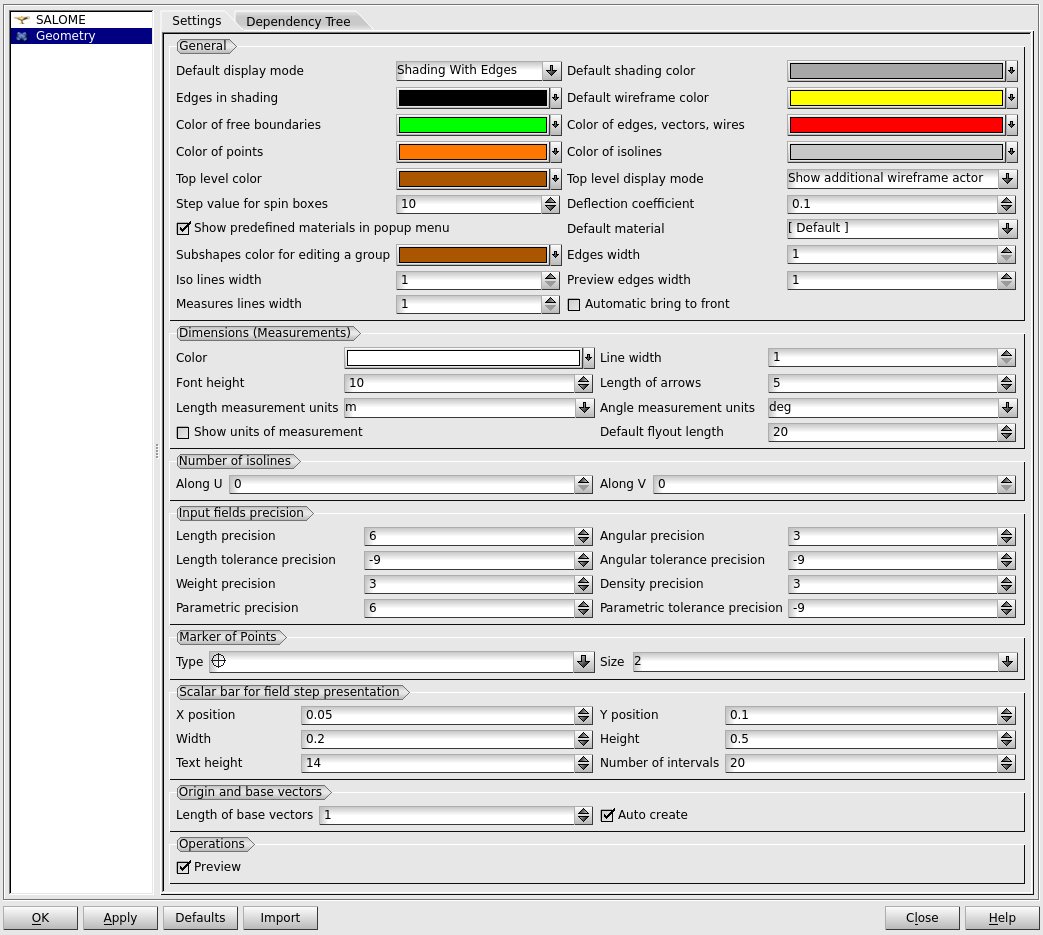
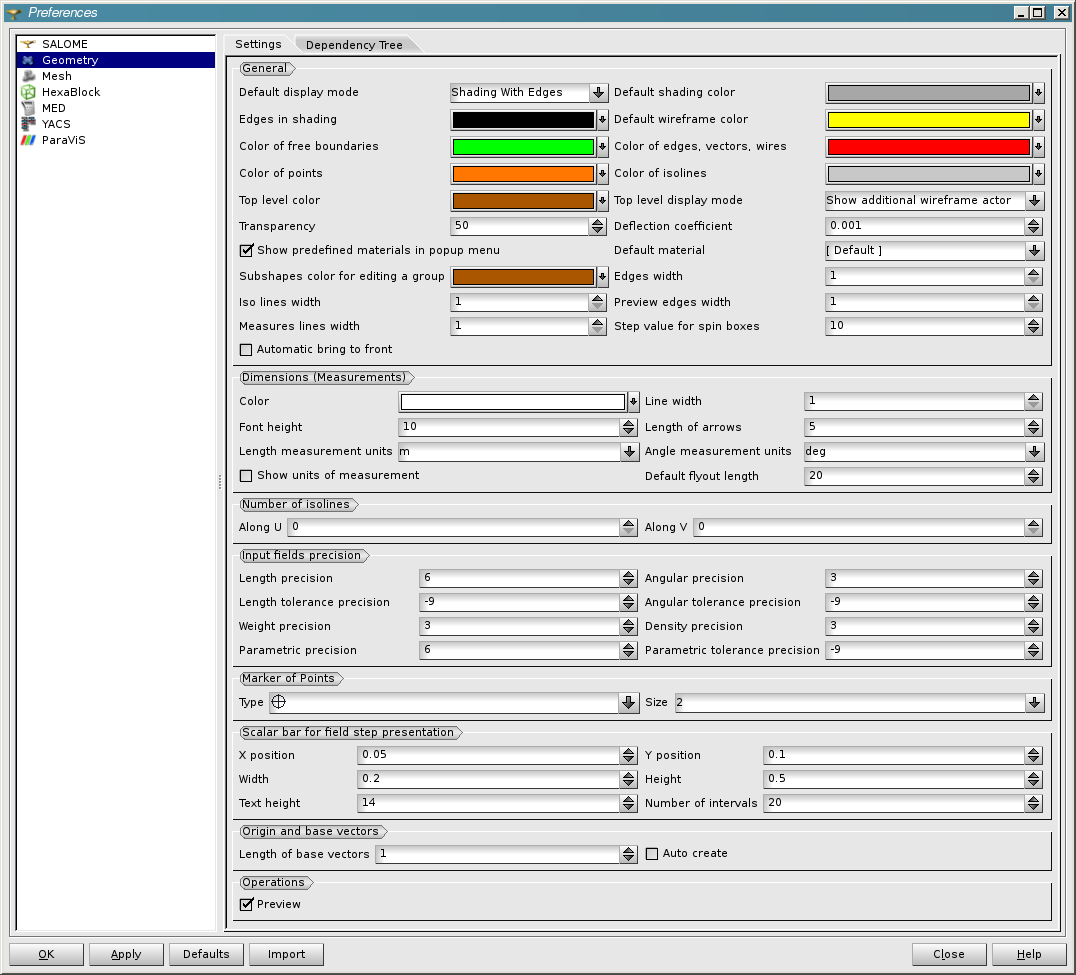
0022618: [CEA 1062] Define the transparency by default in the preferences

diff --git a/src/GEOMGUI/GEOM_msg_fr.ts b/src/GEOMGUI/GEOM_msg_fr.ts
@@ -3153,6 +3153,10 @@ Choisissez une face, une coque ou un solide et essayez de nouveau</translation>
         <translation>Mode de visualisation</translation>
     </message>
     <message>
+        <source>PREF_TRANSPARENCY</source>
+        <translation>Transparence</translation>
+    </message>
+    <message>
         <source>PREF_FREE_BOUND_COLOR</source>
         <translation>Couleur des contours libres</translation>
     </message>

diff --git a/src/GEOMGUI/GEOM_msg_en.ts b/src/GEOMGUI/GEOM_msg_en.ts
@@ -3149,6 +3149,10 @@ Please, select face, shell or solid and try again</translation>
         <translation>Default display mode</translation>
     </message>
     <message>
+        <source>PREF_TRANSPARENCY</source>
+        <translation>Transparency</translation>
+    </message>
+    <message>
         <source>PREF_FREE_BOUND_COLOR</source>
         <translation>Color of free boundaries</translation>
     </message>

diff --git a/src/GEOMGUI/GEOM_msg_ja.ts b/src/GEOMGUI/GEOM_msg_ja.ts
@@ -3144,6 +3144,10 @@
       <translation>表示モード</translation>
     </message>
     <message>
+        <source>PREF_TRANSPARENCY</source>
+        <translation>透明度</translation>
+    </message>
+    <message>
       <source>PREF_FREE_BOUND_COLOR</source>
       <translation>自由境界の色</translation>
     </message>

diff --git a/src/GEOMGUI/GEOM_Displayer.h b/src/GEOMGUI/GEOM_Displayer.h
@@ -139,8 +139,8 @@ public:
   int           GetColor  () const;
   bool          HasColor  () const;
 
-  void          SetTransparency  ( const double );
-  void          UnsetTransparency();
+  double        SetTransparency  ( const double );
+  double        UnsetTransparency();
   double        GetTransparency  () const;
   bool          HasTransparency  () const;
   
@@ -294,6 +294,7 @@ protected:
   Aspect_TypeOfMarker              myTypeOfMarker;
   double                           myScaleOfMarker;
   double                           myTransparency;
+  bool                             myHasTransparency;
 
 private:
   SalomeApp_Application* myApp;
